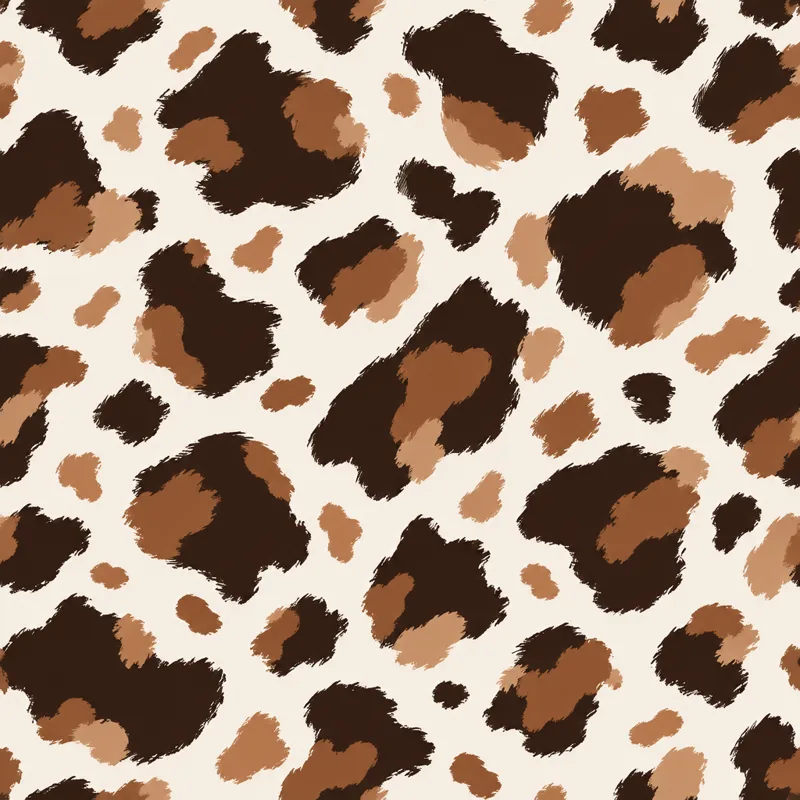
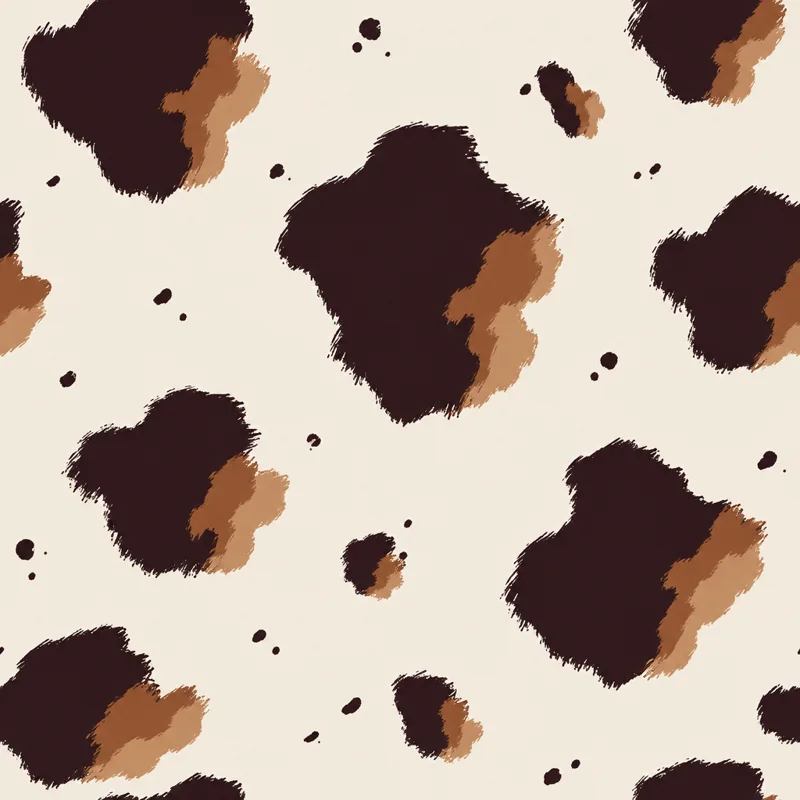
v117: estampado de vaca fiel al termo (manchas grandes sobre marfil) como acento sobre cuero oscuro
Claude-Session: https://claude.ai/code/session_01BB8eTEaLMvEnfDMWBboEm5

diff --git a/sw.js b/sw.js
@@ -1,6 +1,6 @@
 // Funciona sin internet y aunque el sitio esté pausado: guarda TODA la app
 // (incluidos los decodificadores de imágenes de PDF) en el dispositivo.
-const V = 'apuntes-v116';
+const V = 'apuntes-v117';
 const CORE = ["./", "js/ambient.js", "css/app.css", "icons/apple-180.png", "icons/icon-192.png", "icons/icon-512.png", "icons/maskable-512.png", "index.html", "js/app.js", "js/db.js", "js/fonts.js", "js/home.js", "js/imageeditor.js", "js/ink.js", "js/minikb.js", "js/tpledit.js", "js/notebook.js", "js/pdfview.js", "js/stickers.js", "js/study.js", "js/summarizer.js", "js/sync.js", "js/solver.js", "js/loona.js", "js/recorder.js", "js/music.js", "js/backup.js", "js/handsfree.js", "js/cmds.js", "js/quota.js", "js/coach.js", "js/errors.js", "js/quiz.js", "js/plan.js", "js/game.js", "js/pageturn.js", "data/indices.json", "js/live.js", "js/agenda.js", "vendor/page-flip/page-flip.module.js", "img/portada.webp", "img/marco.webp", "img/marco-top.webp", "img/clip.webp", "img/borde-bio.webp", "img/hero-bio.webp", "img/hero-quim.webp", "img/hero-gen.webp", "img/borde-quim.webp", "img/borde-gen.webp", "img/dije-fuera.webp", "img/dije-real.webp", "img/vaca.webp", "img/vaca-osc.webp", "img/nota-luna.webp", "img/marco-top-claro.webp", "img/marco-top-grafito.webp", "img/cuero.jpg", "img/papel.jpg", "img/agenda.webp", "img/ola-top.webp", "img/ola-big.webp", "img/lam-celula-top.webp", "img/lam-celula-big.webp", "img/lam-genetica-top.webp", "img/lam-genetica-big.webp", "img/lam-corpo-top.webp", "img/lam-corpo-big.webp", "img/lam-plantas-top.webp", "img/lam-plantas-big.webp", "img/lam-quimica-top.webp", "img/lam-quimica-big.webp", "img/lam-fisica-top.webp", "img/lam-fisica-big.webp", "img/lam-mar-top.webp", "img/lam-mar-big.webp", "img/agenda-s.webp", "img/deco-polaroid.webp", "img/deco-corazon.webp", "img/deco-sello.webp", "img/grano.png", "js/tapes.js", "js/templates.js", "js/ui.js", "js/wheel.js", "manifest.webmanifest", "vendor/katex/katex.min.js", "vendor/katex/katex.min.css", "vendor/katex/fonts/KaTeX_AMS-Regular.woff2", "vendor/katex/fonts/KaTeX_Caligraphic-Bold.woff2", "vendor/katex/fonts/KaTeX_Caligraphic-Regular.woff2", "vendor/katex/fonts/KaTeX_Fraktur-Bold.woff2", "vendor/katex/fonts/KaTeX_Fraktur-Regular.woff2", "vendor/katex/fonts/KaTeX_Main-Bold.woff2", "vendor/katex/fonts/KaTeX_Main-BoldItalic.woff2", "vendor/katex/fonts/KaTeX_Main-Italic.woff2", "vendor/katex/fonts/KaTeX_Main-Regular.woff2", "vendor/katex/fonts/KaTeX_Math-BoldItalic.woff2", "vendor/katex/fonts/KaTeX_Math-Italic.woff2", "vendor/katex/fonts/KaTeX_SansSerif-Bold.woff2", "vendor/katex/fonts/KaTeX_SansSerif-Italic.woff2", "vendor/katex/fonts/KaTeX_SansSerif-Regular.woff2", "vendor/katex/fonts/KaTeX_Script-Regular.woff2", "vendor/katex/fonts/KaTeX_Size1-Regular.woff2", "vendor/katex/fonts/KaTeX_Size2-Regular.woff2", "vendor/katex/fonts/KaTeX_Size3-Regular.woff2", "vendor/katex/fonts/KaTeX_Size4-Regular.woff2", "vendor/katex/fonts/KaTeX_Typewriter-Regular.woff2", "vendor/pdf-lib.min.js", "vendor/pdf.min.mjs", "vendor/pdf.worker.min.mjs", "vendor/standard_fonts/FoxitDingbats.pfb", "vendor/standard_fonts/FoxitFixed.pfb", "vendor/standard_fonts/FoxitFixedBold.pfb", "vendor/standard_fonts/FoxitFixedBoldItalic.pfb", "vendor/standard_fonts/FoxitFixedItalic.pfb", "vendor/standard_fonts/FoxitSerif.pfb", "vendor/standard_fonts/FoxitSerifBold.pfb", "vendor/standard_fonts/FoxitSerifBoldItalic.pfb", "vendor/standard_fonts/FoxitSerifItalic.pfb", "vendor/standard_fonts/FoxitSymbol.pfb", "vendor/standard_fonts/LiberationSans-Bold.ttf", "vendor/standard_fonts/LiberationSans-BoldItalic.ttf", "vendor/standard_fonts/LiberationSans-Italic.ttf", "vendor/standard_fonts/LiberationSans-Regular.ttf", "vendor/wasm/jbig2.wasm", "vendor/wasm/jbig2_nowasm_fallback.js", "vendor/wasm/openjpeg.wasm", "vendor/wasm/openjpeg_nowasm_fallback.js", "vendor/wasm/qcms_bg.wasm"];
 self.addEventListener('install', e => {
   e.waitUntil(caches.open(V).then(async c => {

diff --git a/css/app.css b/css/app.css
@@ -2275,3 +2275,22 @@ html.lite .ag-dije-in, html.lite .agenda.closed .ag-dije-out { animation: none !
 .lam-quiz { background: var(--g-card) !important; border-color: var(--g-line) !important; color: var(--g-tx) !important; }
 .lam-quiz > summary span { color: var(--g-tx) !important; } .lam-quiz > summary small { color: var(--g-tx2) !important; }
 .qz { border-top-color: #2a1c15 !important; } .qz-stem { color: var(--g-tx) !important; } .qz-fb { color: #d8c8b4 !important; } .qz.real .qz-src { color: #b98a64 !important; }
+
+/* ============ v117: vaca fiel a tu termo (manchas grandes sobre marfil) como ACENTO; lo demás oscuro ============ */
+.agc-front { background: radial-gradient(120% 90% at 30% 20%, rgba(255,255,255,.08), transparent 55%), linear-gradient(90deg, rgba(0,0,0,.6), transparent 9%), url(../img/cuero.jpg) center / 384px, #120b08 !important; }
+.agc-front::after { content: ''; position: absolute; left: 0; top: 0; bottom: 0; width: 24%; border-radius: inherit; background: linear-gradient(90deg, rgba(0,0,0,.15), transparent 30%, transparent 85%, rgba(0,0,0,.45)), var(--vaca) 0 0 / 30cqw; box-shadow: 1px 0 0 rgba(0,0,0,.6), 3px 0 8px rgba(0,0,0,.5); pointer-events: none; }
+.agc-front::before { display: none; }
+.agc-name, .agc-moon, .agc-hint { z-index: 1; }
+.agc-front > .agc-name, .agc-front > .agc-moon, .agc-front > .agc-hint { translate: 10% 0; }
+#loona-fab, .loona-fab { background: var(--vaca) 20% 30% / 150px, #0e0907 !important; color: #2B1A1E !important; }
+.ag-note, .ag-note.ag-hot { background: linear-gradient(rgba(14,9,7,.94), rgba(14,9,7,.94)) center / 86% 82% no-repeat, var(--vaca) 10% 20% / 260px, #0e0907 !important; }
+.ag-tabl.on { background: var(--vaca) 30% 40% / 180px, #CFC3B3 !important; }
+.ag-tabl.on span { color: #1a0f0b !important; text-shadow: 0 0 4px #EFE7DC, 0 0 8px #EFE7DC !important; }
+.sum.tpl-lamina { background: linear-gradient(180deg, rgba(14,9,7,.05) 0, rgba(14,9,7,.35) 90px, rgba(14,9,7,.92) 135px, #0e0907 160px), var(--vaca) 0 0 / 380px repeat-x, #0e0907 !important; }
+.sum.tpl-lamina .sum-title { -webkit-text-stroke: .14em #0e0907 !important; text-shadow: .05em .07em 0 #8a5a3c, .09em .12em 0 #2a1a12, 0 0 22px #000, 0 0 10px #000 !important; }
+.sum.tpl-lamina .lam-card::before { background: var(--vaca) 0 0 / 150px, #CFC3B3 !important; height: 8px !important; }
+.sum.tpl-lamina .lam-note.rec { background: var(--vaca) 0 0 / 200px, #0e0907 !important; box-shadow: inset 0 0 0 10px transparent, inset 0 0 0 999px rgba(14,9,7,.0), 0 8px 16px -8px #000 !important; padding: 0 !important; }
+.sum.tpl-lamina .lam-note.rec > * { background: rgba(14,9,7,.92); margin: 0 !important; }
+.sum.tpl-lamina .lam-note.rec > b { padding: 10px 12px 2px; margin: 8px 8px 0 !important; border-radius: 3px 3px 0 0; }
+.sum.tpl-lamina .lam-note.rec > p { padding: 2px 12px 10px; margin: 0 8px 8px !important; border-radius: 0 0 3px 3px; }
+.agc-hint { background: none !important; }

diff --git a/js/home.js b/js/home.js
@@ -1,6 +1,6 @@
 // Inicio estilo launcher en cuero: materias como cuadernos, dock inferior.
 import * as db from './db.js';
-export const APP_VERSION = 116;
+export const APP_VERSION = 117;
 import * as sync from './sync.js';
 import { h, icon, iconBtn, COVERS, modal, ask, confirmBox, toast, pickFile, download } from './ui.js';
 import { addFontFiles, DAFONT } from './fonts.js';
